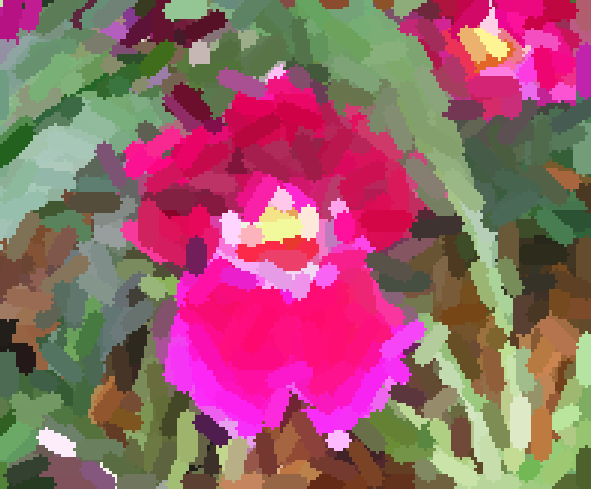
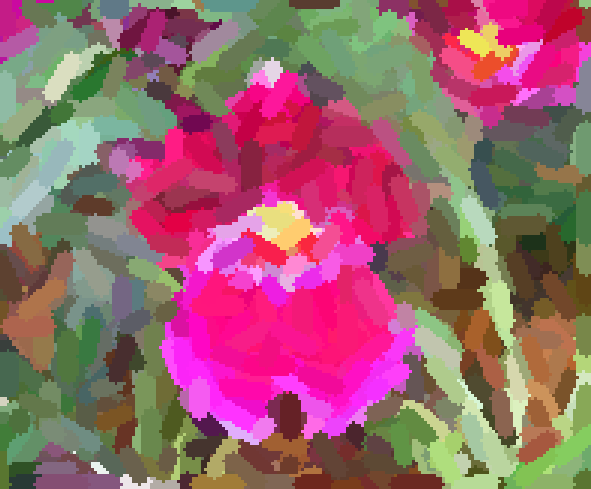
added random directions to p6

diff --git a/p2/painters.py b/p2/painters.py
@@ -244,6 +244,18 @@ class P5Painter(P4Painter):
 ##
 ###########################################################
 
+# from https://librat.wikispaces.com/file/view/utilities.py
+def rotate2D(xt, yt, angle):
+    """
+    Rotates x,y points by the given angle in degrees
+    Translation to origin assumed
+    """
+    rad = angle * pi / 180.0
+    xr = xt * cos(rad) - yt * sin(rad)
+    yr = yt * cos(rad) + xt * sin(rad)
+    return (xr, yr)
+
+
 class P6Painter(P5Painter):
 
     def __init__(self):
@@ -251,11 +263,16 @@ class P6Painter(P5Painter):
         self.colourRange=(-15.0/255, 15.0/255)
         self.angleRange=(-15.0/360*2*math.pi, 15.0/360*2*math.pi)
         self.radRange=(-0.5, 0.5)
+        self.base_radius = self.radius
 
     def get_stroke_endpoints(self, center):       
-        diff = np.array([self.intensity_gradient[center[1], center[0], 1],
+        diff = np.array([
+            self.intensity_gradient[center[1], center[0], 1],
             self.intensity_gradient[center[1], center[0], 0]])
- 
+
+        diff = np.array(
+            rotate2D(diff[0], diff[1], random.uniform(*self.angleRange)))
+
         # TODO add a little bit of variance to the diff array
 
         return ( walk_from(
@@ -272,20 +289,16 @@ class P6Painter(P5Painter):
             max(0, min(1, colour[1] + random.uniform(*self.colourRange) )),
             max(0, min(1, colour[2] + random.uniform(*self.colourRange) )))
 
+    def do_paint(self):
+        # randomize radius because I did not provide a nice wrapper for rad
+        # self.radius = self.base_radius + random.uniform(*self.radRange)
+        P5Painter.do_paint(self)
 
 
 
 ###########################################################
 ## Painting helper methods
 ###########################################################
-
-
-def colourImSave(filename, array):
-    imArray = imresize(array, 3., 'nearest')
-    if (len(imArray.shape) == 2):
-        imsave(filename, cm.jet(imArray))
-    else:
-        imsave(filename, imArray)
 
 
 def markStroke(mrkd, p0, p1, rad, val):

diff --git a/p2/paintrend.py b/p2/paintrend.py
@@ -31,6 +31,16 @@ from painters import *
 ## Options and main loop logic #
 ################################
 
+
+
+def colourImSave(filename, array):
+    imArray = imresize(array, 3., 'nearest')
+    if (len(imArray.shape) == 2):
+        imsave(filename, cm.jet(imArray))
+    else:
+        imsave(filename, imArray)
+
+
 def print_helptext():
     debug("usage: 'paintend.py -p [version]'")
     debug("    where [version] is one of p1, 1, p2, 2 ... p6, 6")
@@ -96,7 +106,7 @@ def main():
     k = 0
 
     # paint over the image
-    while painter.should_paint():
+    while painter.should_paint() and k<5000:
         painter.do_paint();
 
         k += 1
@@ -114,7 +124,7 @@ def main():
     plt.axis('off')
     plt.imshow(canvas)
     plt.pause(3)
-    colorImSave('output.png', canvas)
+    colourImSave('output.png', canvas)
 
 
 if __name__ == "__main__":
